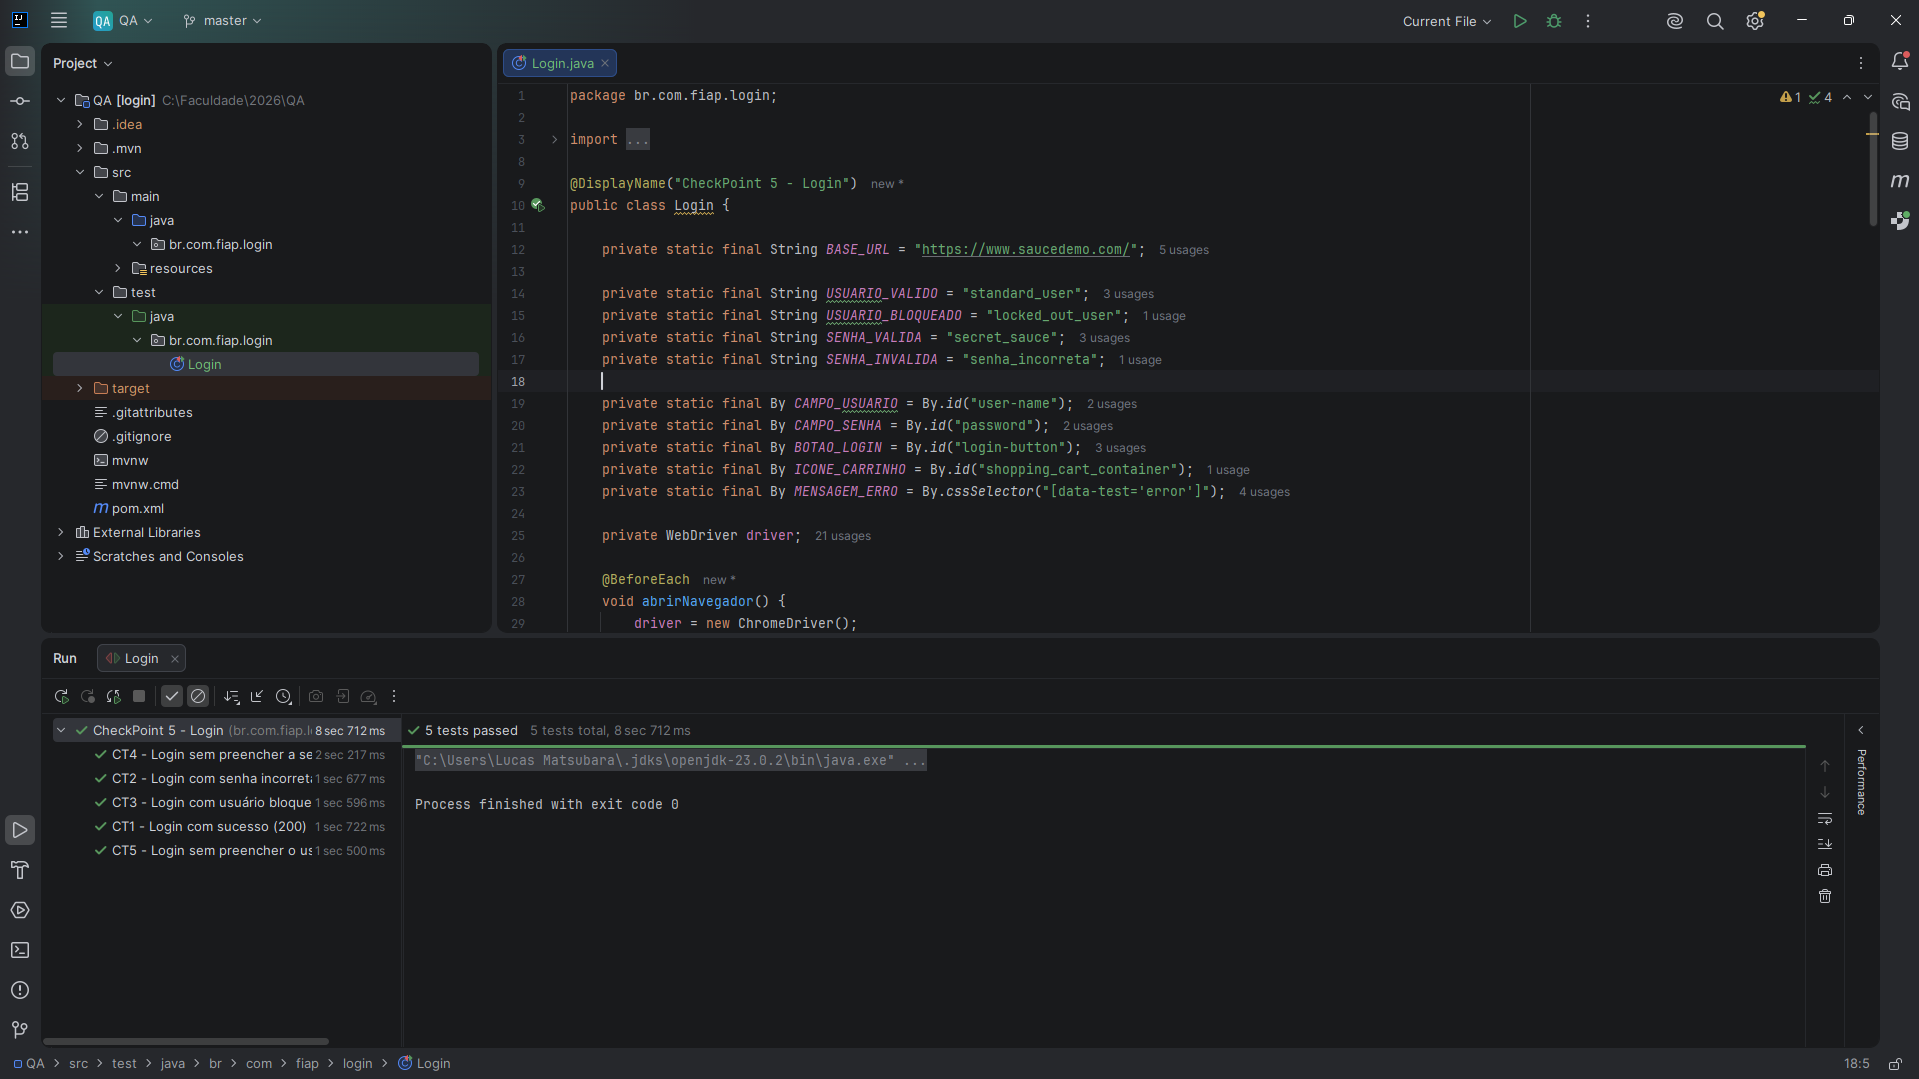
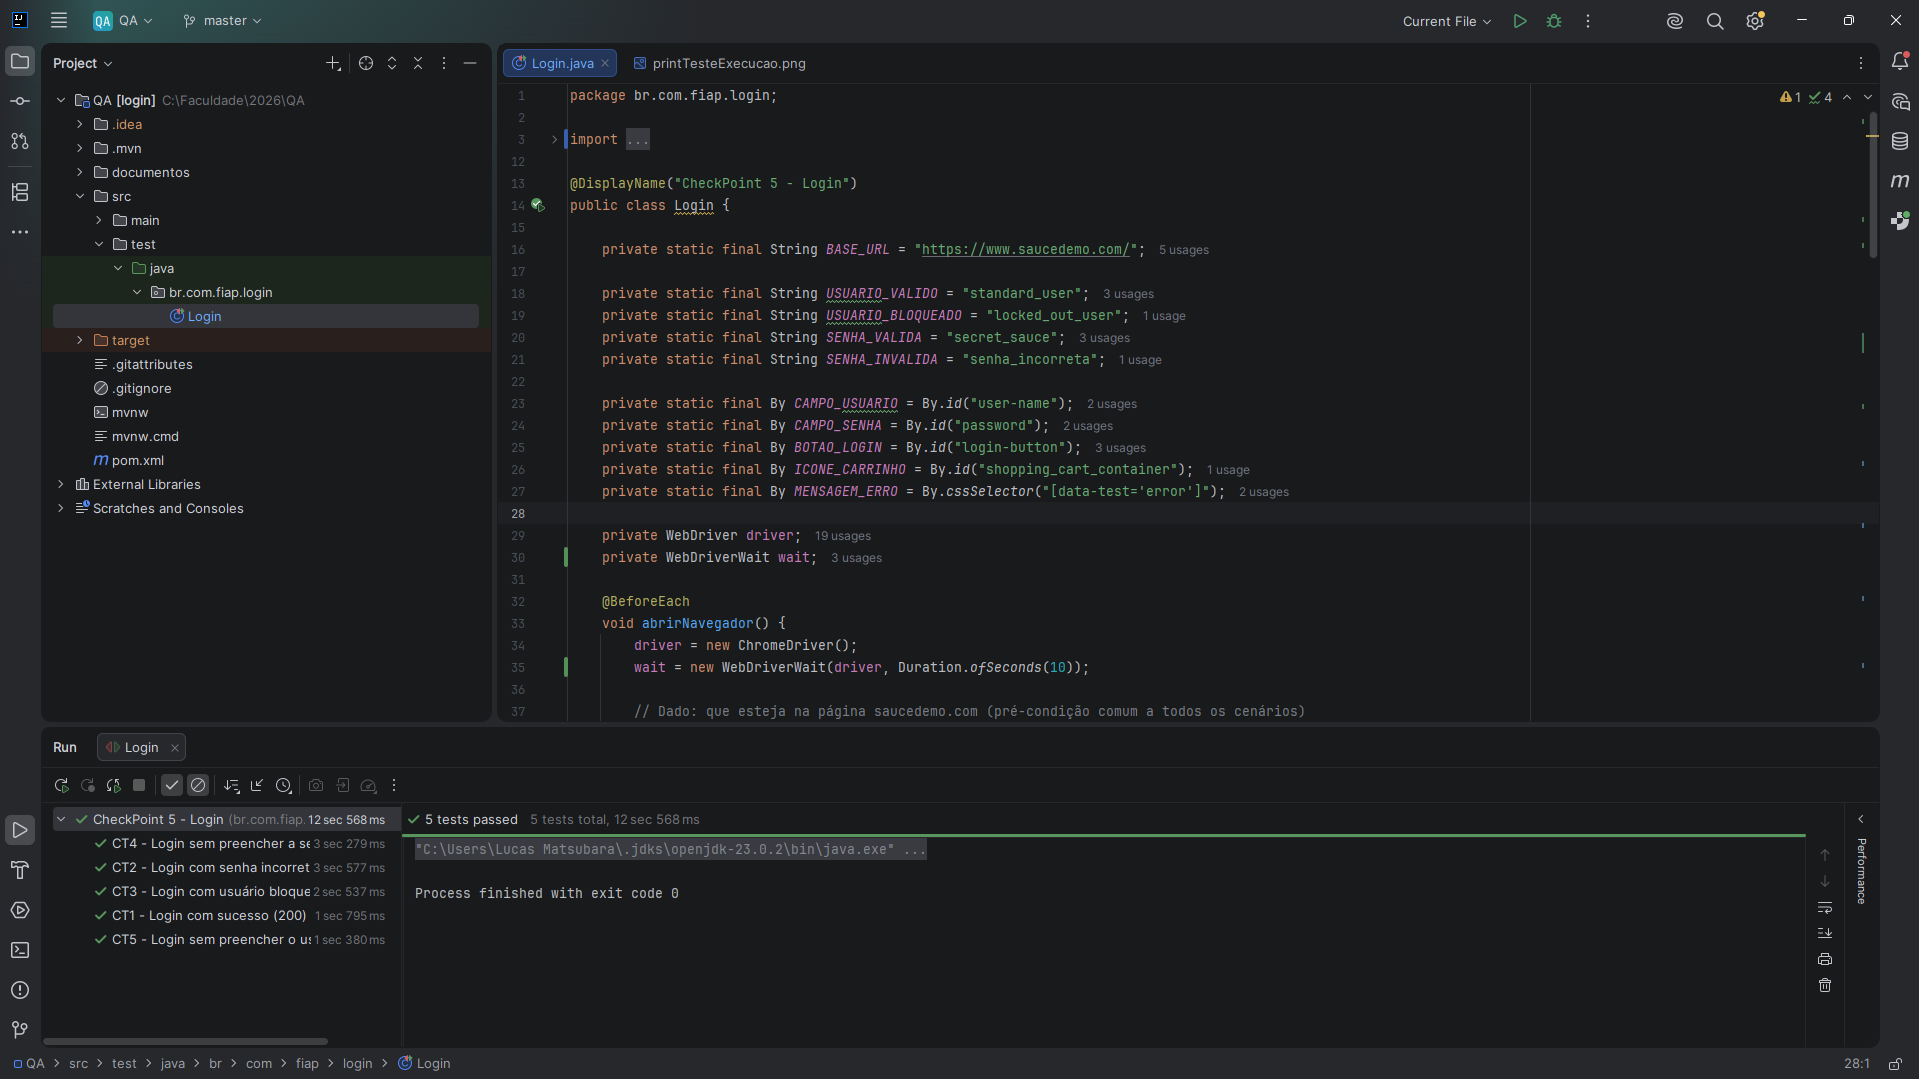
Realizando correção do print anexado.

diff --git a/src/test/java/br/com/fiap/login/Login.java b/src/test/java/br/com/fiap/login/Login.java
@@ -1,8 +1,12 @@
 package br.com.fiap.login;
 
+import java.time.Duration;
+
 import org.junit.jupiter.api.*;
 import org.openqa.selenium.*;
 import org.openqa.selenium.chrome.ChromeDriver;
+import org.openqa.selenium.support.ui.ExpectedConditions;
+import org.openqa.selenium.support.ui.WebDriverWait;
 
 import static org.junit.jupiter.api.Assertions.*;
 
@@ -23,10 +27,12 @@ public class Login {
     private static final By MENSAGEM_ERRO = By.cssSelector("[data-test='error']");
 
     private WebDriver driver;
+    private WebDriverWait wait;
 
     @BeforeEach
     void abrirNavegador() {
         driver = new ChromeDriver();
+        wait = new WebDriverWait(driver, Duration.ofSeconds(10));
 
         // Dado: que esteja na página saucedemo.com (pré-condição comum a todos os cenários)
         driver.get(BASE_URL);
@@ -45,6 +51,11 @@ public class Login {
         driver.findElement(BOTAO_LOGIN).click();
     }
 
+    private String obterMensagemErro() {
+        wait.until(ExpectedConditions.visibilityOfElementLocated(MENSAGEM_ERRO));
+        return driver.findElement(MENSAGEM_ERRO).getText();
+    }
+
     @Test
     @DisplayName("CT1 - Login com sucesso (200)")
     void deveLogarComCredenciaisValidas() {
@@ -54,6 +65,7 @@ public class Login {
         realizarLogin(USUARIO_VALIDO, SENHA_VALIDA);
 
         // Então: deverá ser redirecionado para a página inventory.html
+        wait.until(ExpectedConditions.urlContains("inventory.html"));
         assertEquals(BASE_URL + "inventory.html", driver.getCurrentUrl());
         assertTrue(driver.findElement(ICONE_CARRINHO).isDisplayed());
     }
@@ -64,7 +76,7 @@ public class Login {
         realizarLogin(USUARIO_VALIDO, SENHA_INVALIDA);
 
         // Então: credenciais inválidas, permanece na tela de login
-        String mensagem = driver.findElement(MENSAGEM_ERRO).getText();
+        String mensagem = obterMensagemErro();
         assertTrue(mensagem.contains("do not match"),
                 "Esperava mensagem de credenciais inválidas, veio: " + mensagem);
         assertEquals(BASE_URL, driver.getCurrentUrl());
@@ -76,7 +88,7 @@ public class Login {
         realizarLogin(USUARIO_BLOQUEADO, SENHA_VALIDA);
 
         // Então: conta bloqueada, acesso negado mesmo com credenciais corretas
-        String mensagem = driver.findElement(MENSAGEM_ERRO).getText();
+        String mensagem = obterMensagemErro();
         assertTrue(mensagem.contains("locked out"),
                 "Esperava mensagem de usuário bloqueado, veio: " + mensagem);
         assertEquals(BASE_URL, driver.getCurrentUrl());
@@ -90,7 +102,7 @@ public class Login {
         driver.findElement(BOTAO_LOGIN).click();
 
         // Então: erro de campo obrigatório
-        String mensagem = driver.findElement(MENSAGEM_ERRO).getText();
+        String mensagem = obterMensagemErro();
         assertTrue(mensagem.contains("Password is required"),
                 "Esperava mensagem de senha obrigatória, veio: " + mensagem);
     }
@@ -103,7 +115,7 @@ public class Login {
         driver.findElement(BOTAO_LOGIN).click();
 
         // Então: erro de campo obrigatório
-        String mensagem = driver.findElement(MENSAGEM_ERRO).getText();
+        String mensagem = obterMensagemErro();
         assertTrue(mensagem.contains("Username is required"),
                 "Esperava mensagem de usuário obrigatório, veio: " + mensagem);
     }
